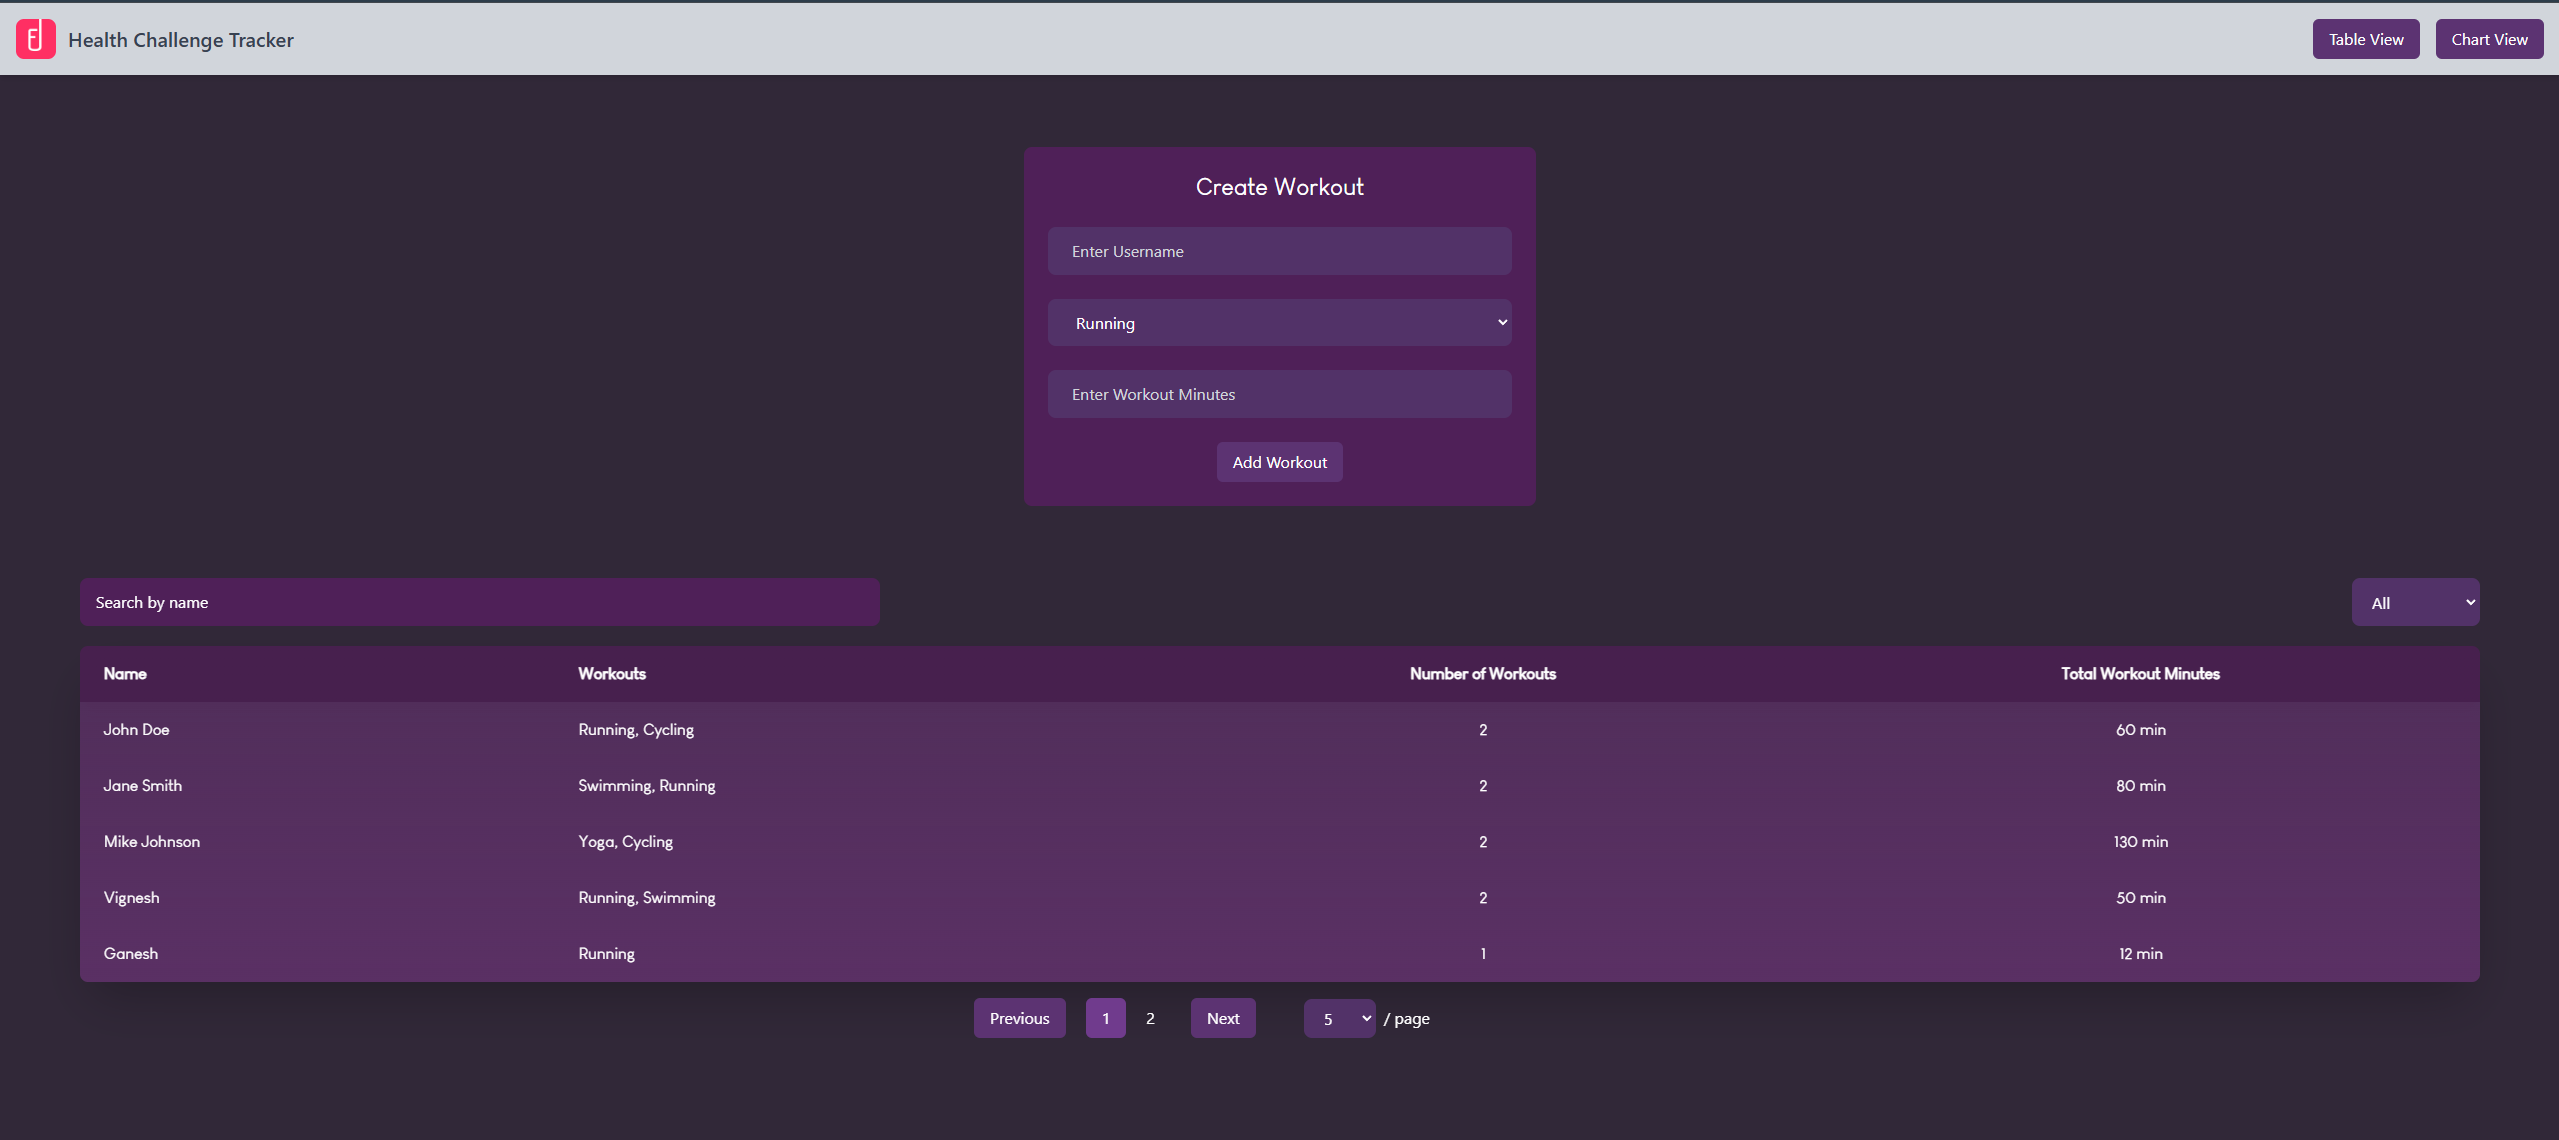
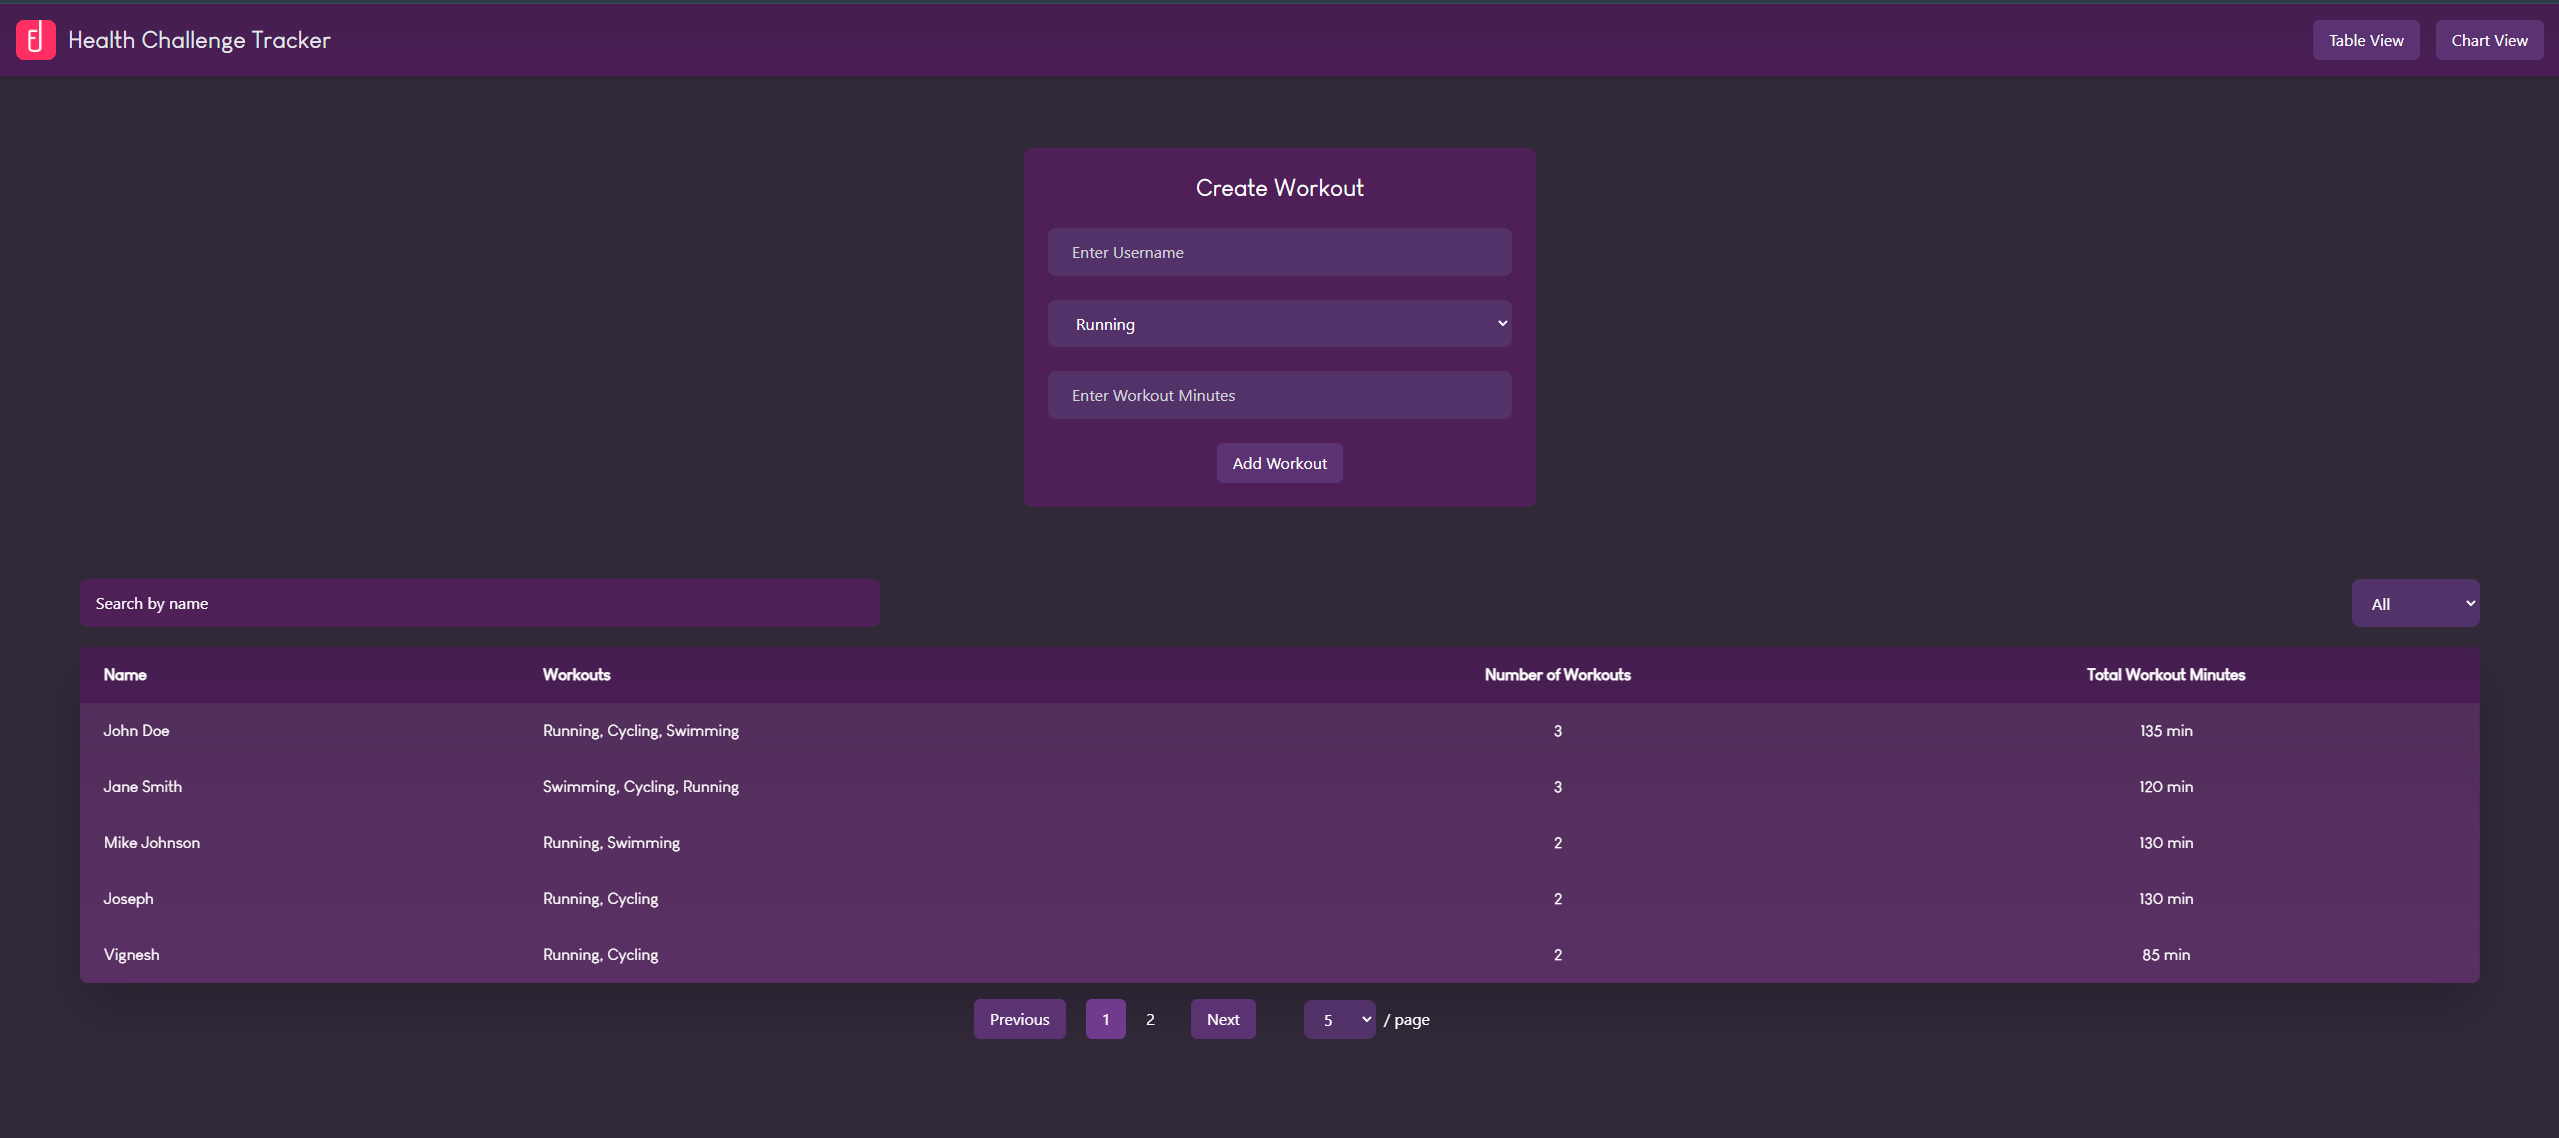
Updated Screenshots

diff --git a/coverage/fyle-health-tracker/app/services/workout-api.service.ts.html b/coverage/fyle-health-tracker/app/services/workout-api.service.ts.html
@@ -150,7 +150,16 @@
 <a name='L85'></a><a href='#L85'>85</a>
 <a name='L86'></a><a href='#L86'>86</a>
 <a name='L87'></a><a href='#L87'>87</a>
-<a name='L88'></a><a href='#L88'>88</a></td><td class="line-coverage quiet"><span class="cline-any cline-neutral">&nbsp;</span>
+<a name='L88'></a><a href='#L88'>88</a>
+<a name='L89'></a><a href='#L89'>89</a>
+<a name='L90'></a><a href='#L90'>90</a>
+<a name='L91'></a><a href='#L91'>91</a>
+<a name='L92'></a><a href='#L92'>92</a>
+<a name='L93'></a><a href='#L93'>93</a>
+<a name='L94'></a><a href='#L94'>94</a>
+<a name='L95'></a><a href='#L95'>95</a>
+<a name='L96'></a><a href='#L96'>96</a>
+<a name='L97'></a><a href='#L97'>97</a></td><td class="line-coverage quiet"><span class="cline-any cline-neutral">&nbsp;</span>
 <span class="cline-any cline-neutral">&nbsp;</span>
 <span class="cline-any cline-neutral">&nbsp;</span>
 <span class="cline-any cline-neutral">&nbsp;</span>
@@ -174,6 +183,15 @@
 <span class="cline-any cline-yes">2x</span>
 <span class="cline-any cline-neutral">&nbsp;</span>
 <span class="cline-any cline-yes">5x</span>
+<span class="cline-any cline-neutral">&nbsp;</span>
+<span class="cline-any cline-neutral">&nbsp;</span>
+<span class="cline-any cline-neutral">&nbsp;</span>
+<span class="cline-any cline-neutral">&nbsp;</span>
+<span class="cline-any cline-neutral">&nbsp;</span>
+<span class="cline-any cline-neutral">&nbsp;</span>
+<span class="cline-any cline-neutral">&nbsp;</span>
+<span class="cline-any cline-neutral">&nbsp;</span>
+<span class="cline-any cline-neutral">&nbsp;</span>
 <span class="cline-any cline-neutral">&nbsp;</span>
 <span class="cline-any cline-neutral">&nbsp;</span>
 <span class="cline-any cline-neutral">&nbsp;</span>
@@ -275,12 +293,21 @@ export class WorkoutApiService {
           name: 'Jane Smith',
           workouts: [
             { type: 'Swimming', minutes: 60 },
+            { type: 'Cycling', minutes: 40 },
             { type: 'Running', minutes: 20 },
           ],
         },
         {
           id: 3,
           name: 'Mike Johnson',
+          workouts: [
+            { type: 'Running', minutes: 50 },
+            { type: 'Swimming', minutes: 80 },
+          ],
+        },
+        {
+          id: 4,
+          name: 'Joseph',
           workouts: [
             { type: 'Running', minutes: 50 },
             { type: 'Cycling', minutes: 80 },
@@ -331,7 +358,7 @@ export class WorkoutApiService {
             <div class='footer quiet pad2 space-top1 center small'>
                 Code coverage generated by
                 <a href="https://istanbul.js.org/" target="_blank" rel="noopener noreferrer">istanbul</a>
-                at 2025-02-09T14:24:59.670Z
+                at 2025-02-09T16:09:13.184Z
             </div>
         <script src="../../prettify.js"></script>
         <script>

diff --git a/coverage/fyle-health-tracker/app/components/chart-view/chart-view.component.ts.html b/coverage/fyle-health-tracker/app/components/chart-view/chart-view.component.ts.html
@@ -352,7 +352,7 @@ export class ChartViewComponent implements OnInit{
             <div class='footer quiet pad2 space-top1 center small'>
                 Code coverage generated by
                 <a href="https://istanbul.js.org/" target="_blank" rel="noopener noreferrer">istanbul</a>
-                at 2025-02-09T14:24:59.670Z
+                at 2025-02-09T16:09:13.184Z
             </div>
         <script src="../../../prettify.js"></script>
         <script>

diff --git a/coverage/fyle-health-tracker/app/components/add-workout/add-workout.component.ts.html b/coverage/fyle-health-tracker/app/components/add-workout/add-workout.component.ts.html
@@ -403,7 +403,7 @@ export class AddWorkoutComponent {
             <div class='footer quiet pad2 space-top1 center small'>
                 Code coverage generated by
                 <a href="https://istanbul.js.org/" target="_blank" rel="noopener noreferrer">istanbul</a>
-                at 2025-02-09T14:24:59.670Z
+                at 2025-02-09T16:09:13.184Z
             </div>
         <script src="../../../prettify.js"></script>
         <script>

diff --git a/coverage/fyle-health-tracker/app/components/table-view/table-view.component.ts.html b/coverage/fyle-health-tracker/app/components/table-view/table-view.component.ts.html
@@ -376,7 +376,7 @@ export class TableViewComponent {
             <div class='footer quiet pad2 space-top1 center small'>
                 Code coverage generated by
                 <a href="https://istanbul.js.org/" target="_blank" rel="noopener noreferrer">istanbul</a>
-                at 2025-02-09T14:24:59.670Z
+                at 2025-02-09T16:09:13.184Z
             </div>
         <script src="../../../prettify.js"></script>
         <script>

diff --git a/coverage/fyle-health-tracker/app/components/navbar/navbar.component.ts.html b/coverage/fyle-health-tracker/app/components/navbar/navbar.component.ts.html
@@ -121,7 +121,7 @@ export class NavbarComponent {
             <div class='footer quiet pad2 space-top1 center small'>
                 Code coverage generated by
                 <a href="https://istanbul.js.org/" target="_blank" rel="noopener noreferrer">istanbul</a>
-                at 2025-02-09T14:24:59.670Z
+                at 2025-02-09T16:09:13.184Z
             </div>
         <script src="../../../prettify.js"></script>
         <script>

diff --git a/coverage/fyle-health-tracker/app/app.component.ts.html b/coverage/fyle-health-tracker/app/app.component.ts.html
@@ -106,7 +106,7 @@ export class AppComponent{
             <div class='footer quiet pad2 space-top1 center small'>
                 Code coverage generated by
                 <a href="https://istanbul.js.org/" target="_blank" rel="noopener noreferrer">istanbul</a>
-                at 2025-02-09T14:24:59.670Z
+                at 2025-02-09T16:09:13.184Z
             </div>
         <script src="../prettify.js"></script>
         <script>

diff --git a/coverage/fyle-health-tracker/app/components/add-workout/index.html b/coverage/fyle-health-tracker/app/components/add-workout/index.html
@@ -101,7 +101,7 @@
             <div class='footer quiet pad2 space-top1 center small'>
                 Code coverage generated by
                 <a href="https://istanbul.js.org/" target="_blank" rel="noopener noreferrer">istanbul</a>
-                at 2025-02-09T14:24:59.670Z
+                at 2025-02-09T16:09:13.184Z
             </div>
         <script src="../../../prettify.js"></script>
         <script>

diff --git a/coverage/fyle-health-tracker/app/components/chart-view/index.html b/coverage/fyle-health-tracker/app/components/chart-view/index.html
@@ -101,7 +101,7 @@
             <div class='footer quiet pad2 space-top1 center small'>
                 Code coverage generated by
                 <a href="https://istanbul.js.org/" target="_blank" rel="noopener noreferrer">istanbul</a>
-                at 2025-02-09T14:24:59.670Z
+                at 2025-02-09T16:09:13.184Z
             </div>
         <script src="../../../prettify.js"></script>
         <script>

diff --git a/coverage/fyle-health-tracker/app/components/navbar/index.html b/coverage/fyle-health-tracker/app/components/navbar/index.html
@@ -101,7 +101,7 @@
             <div class='footer quiet pad2 space-top1 center small'>
                 Code coverage generated by
                 <a href="https://istanbul.js.org/" target="_blank" rel="noopener noreferrer">istanbul</a>
-                at 2025-02-09T14:24:59.670Z
+                at 2025-02-09T16:09:13.184Z
             </div>
         <script src="../../../prettify.js"></script>
         <script>

diff --git a/coverage/fyle-health-tracker/app/components/table-view/index.html b/coverage/fyle-health-tracker/app/components/table-view/index.html
@@ -101,7 +101,7 @@
             <div class='footer quiet pad2 space-top1 center small'>
                 Code coverage generated by
                 <a href="https://istanbul.js.org/" target="_blank" rel="noopener noreferrer">istanbul</a>
-                at 2025-02-09T14:24:59.670Z
+                at 2025-02-09T16:09:13.184Z
             </div>
         <script src="../../../prettify.js"></script>
         <script>

diff --git a/coverage/fyle-health-tracker/app/services/index.html b/coverage/fyle-health-tracker/app/services/index.html
@@ -101,7 +101,7 @@
             <div class='footer quiet pad2 space-top1 center small'>
                 Code coverage generated by
                 <a href="https://istanbul.js.org/" target="_blank" rel="noopener noreferrer">istanbul</a>
-                at 2025-02-09T14:24:59.670Z
+                at 2025-02-09T16:09:13.184Z
             </div>
         <script src="../../prettify.js"></script>
         <script>

diff --git a/coverage/fyle-health-tracker/app/index.html b/coverage/fyle-health-tracker/app/index.html
@@ -101,7 +101,7 @@
             <div class='footer quiet pad2 space-top1 center small'>
                 Code coverage generated by
                 <a href="https://istanbul.js.org/" target="_blank" rel="noopener noreferrer">istanbul</a>
-                at 2025-02-09T14:24:59.670Z
+                at 2025-02-09T16:09:13.184Z
             </div>
         <script src="../prettify.js"></script>
         <script>
